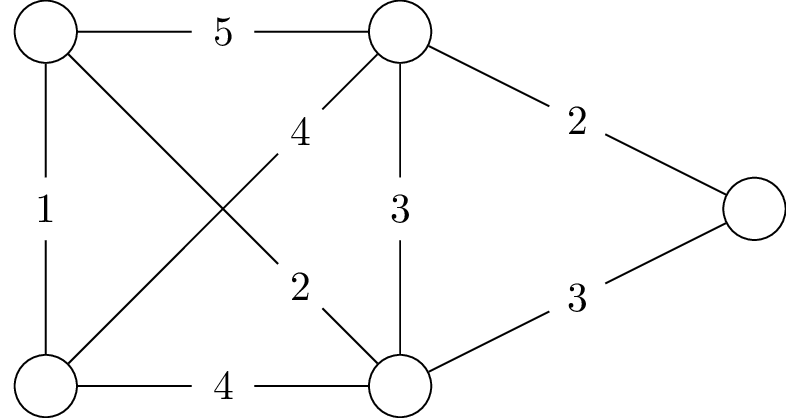
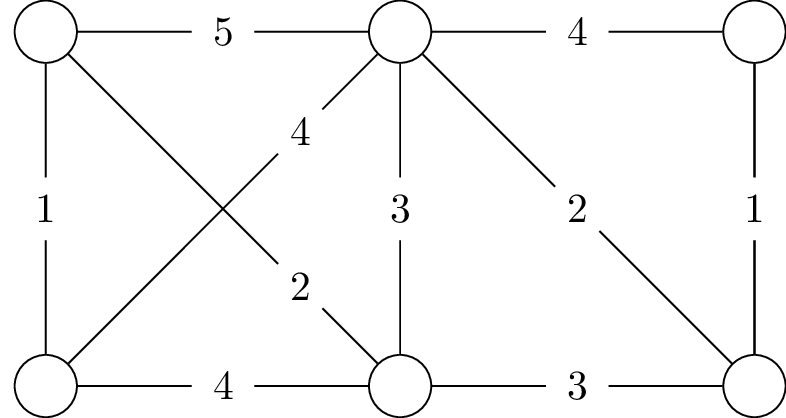
Add interval

diff --git a/graph/coloring/interval/interval_sol.tex b/graph/coloring/interval/interval_sol.tex
@@ -1,0 +1,19 @@
+\documentclass[convert={outfile=\jobname.png}]{standalone}
+\usepackage{draw}
+\usepackage{pgfgantt}
+
+\begin{document}
+
+\begin{tikzpicture}[]
+    \begin{ganttchart}[inline, vgrid=true]{8}{17}
+        \gantttitlelist{8,...,17}{1} \\
+        \ganttbar[bar/.append style={fill=yellow}]{0}{9}{10} \ganttbar[bar/.append style={fill=yellow}]{1}{12}{14} \\
+        \ganttbar[bar/.append style={fill=cyan}]{2}{8}{12} \ganttbar[bar/.append style={fill=yellow}]{3}{15}{16} \\
+        \ganttbar[bar/.append style={fill=magenta}]{4}{9}{13} \\
+        \ganttbar[bar/.append style={fill=yellow}]{5}{11}{11} \ganttbar[bar/.append style={fill=cyan}]{6}{14}{15} \\
+        \ganttbar[bar/.append style={fill=lime}]{7}{9}{9} \ganttbar[bar/.append style={fill=lime}]{8}{14}{16} \\
+        \ganttbar[bar/.append style={fill=orange}]{9}{13}{14}
+    \end{ganttchart}
+\end{tikzpicture}
+
+\end{document}

diff --git a/graph/tsp/tsp.tex b/graph/tsp/tsp.tex
@@ -9,8 +9,9 @@
     \node (b) at (0, \s) {};
     \node (c) at (\s, 0) {};
     \node (d) at (\s, \s) {};
-    \node (e) at (2*\s, .5*\s) {};
-    \foreach \u/\v/\w in {{a/c/4}, {a/b/1}, {b/d/5}, {c/d/3}, {c/e/3}, {d/e/2}}
+    \node (e) at (2*\s, 0) {};
+    \node (f) at (2*\s, \s) {};
+    \foreach \u/\v/\w in {{a/c/4}, {a/b/1}, {b/d/5}, {c/d/3}, {c/e/3}, {d/e/2}, {e/f/3}, {e/f/1}, {d/f/4}}
         \draw (\u) to node[fill=white, draw=none] {$\w$} (\v);
     \draw (a) to node[fill=white, draw=none, near end] {$4$} (d);
     \draw (b) to node[fill=white, draw=none, near end] {$2$} (c);

diff --git a/graph/coloring/interval/interval.tex b/graph/coloring/interval/interval.tex
@@ -1,0 +1,19 @@
+\documentclass[convert={outfile=\jobname.png}]{standalone}
+\usepackage{draw}
+\usepackage{pgfgantt}
+
+\begin{document}
+
+\begin{tikzpicture}[]
+    \begin{ganttchart}[inline, vgrid=true]{8}{17}
+        \gantttitlelist{8,...,17}{1} \\
+        \ganttbar{0}{9}{10} \ganttbar{1}{12}{14} \\
+        \ganttbar{2}{8}{12} \ganttbar{3}{15}{16} \\
+        \ganttbar{4}{9}{13} \\
+        \ganttbar{5}{11}{11} \ganttbar{6}{14}{15} \\
+        \ganttbar{7}{9}{9} \ganttbar{8}{14}{16} \\
+        \ganttbar{9}{13}{14}
+    \end{ganttchart}
+\end{tikzpicture}
+
+\end{document}
